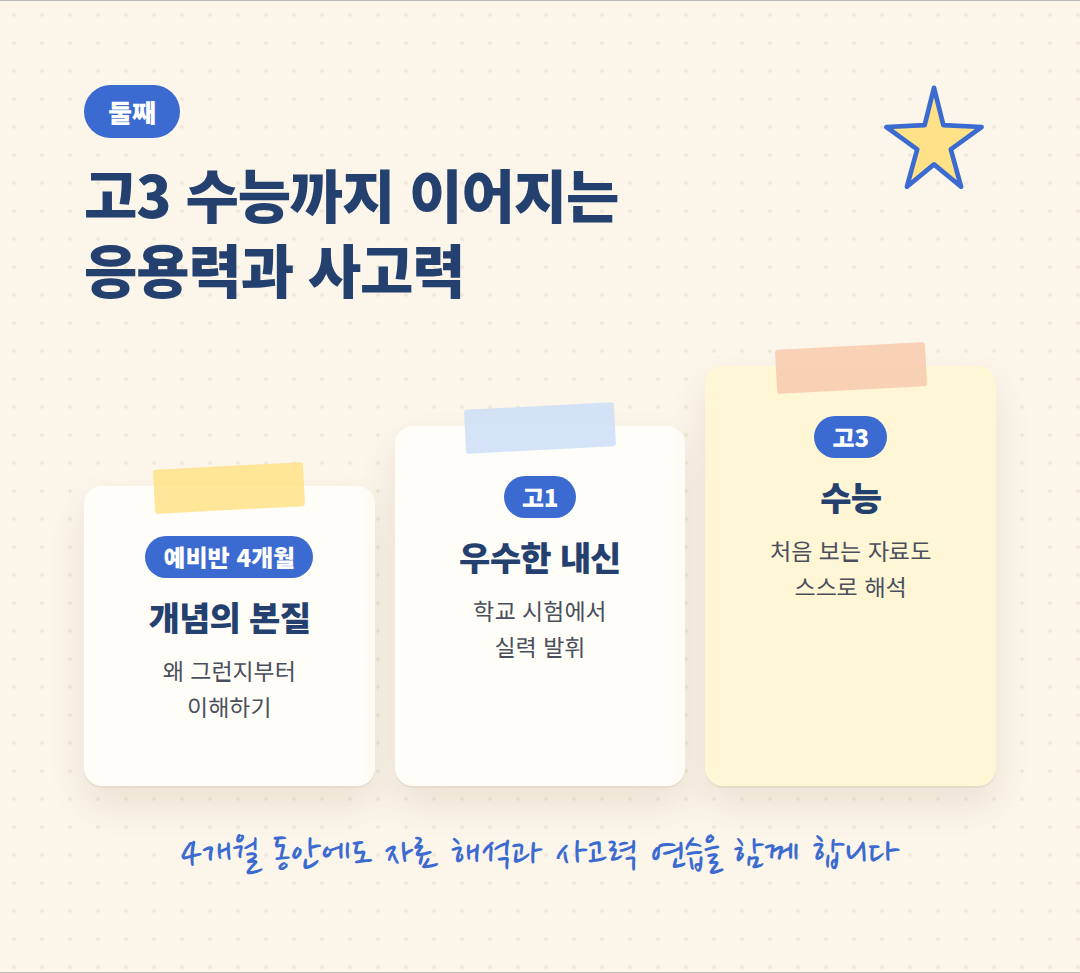
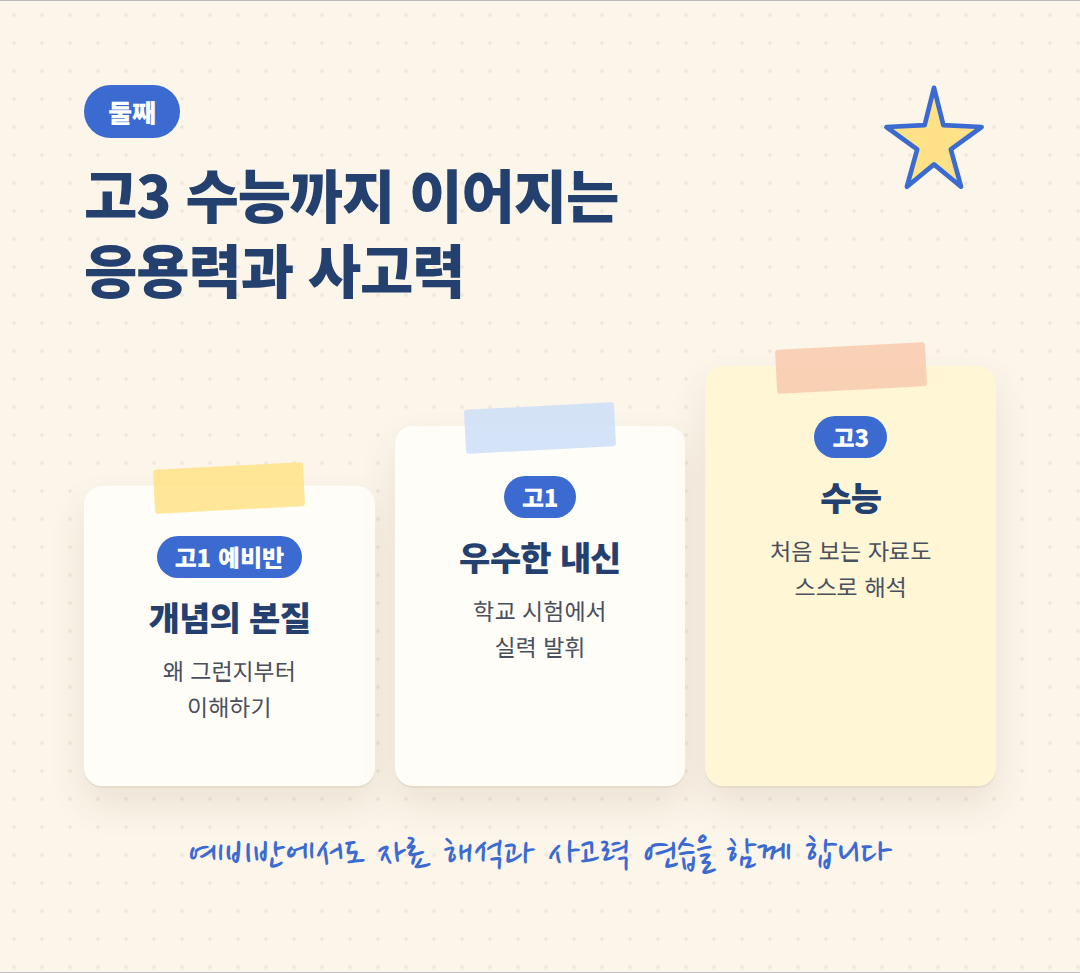
marketing: blog-16 '3월 입학 전 통합과학 1·2를 확실히' 문구로 정리
인사말·학생 호칭·개강 표기(화금반 11/3·수토반 11/4)·수업 시작 표기 수정,
'4개월 동안 ~ 제대로'·월별 진도 본문·'예비반을 주 1회로 해 보니' 문단 삭제,
'왜 예비반은 주 2회일까요'로 제목 수정. 그림 01·02·03·06·07 다시 그림.

Claude-Session: https://claude.ai/code/session_01WC7EVNFFJZDdwaC3HYBAmj

Changed region(s): [[0.1528, 0.8633, 0.825, 0.8941], [0.1222, 0.555, 0.3056, 0.5858]]

diff --git a/parkchan-science/marketing/blog-16/kit.html b/parkchan-science/marketing/blog-16/kit.html
@@ -32,56 +32,42 @@ mark{background:var(--soft);color:var(--ink);outline:1px solid var(--gold);borde
 </style>
 <div class="wrap">
 <section class="box"><h1>박찬 통합과학 · 고1 예비반 안내 글</h1><p class="sub">현 중3 · 고1 예비반(11월~2월) · 편안한 디자인 · 합니다체 · 사진 8장 · 통합과학1·2 진도 · 주 2회 이유 · 네 단계</p></section>
-<section class="box"><h2>① 제목 — 하나 고르기</h2><div class="row"><span class="k">A</span><span class="t">월성동 과학학원 | 현 중3 고1 예비반, 4개월 동안 통합과학 1·2를 제대로 — 박찬 통합과학</span><button class="cp" data-text="월성동 과학학원 | 현 중3 고1 예비반, 4개월 동안 통합과학 1·2를 제대로 — 박찬 통합과학">복사</button></div><div class="row"><span class="k">B</span><span class="t">대구 과학학원 | 고1 예비반 11월 3·4일 개강, 통합과학 1·2 두 권을 확실하게 — 월성동 박찬 통합과학</span><button class="cp" data-text="대구 과학학원 | 고1 예비반 11월 3·4일 개강, 통합과학 1·2 두 권을 확실하게 — 월성동 박찬 통합과학">복사</button></div></section>
+<section class="box"><h2>① 제목 — 하나 고르기</h2><div class="row"><span class="k">A</span><span class="t">월성동 과학학원 | 현 중3 고1 예비반, 3월 입학 전 통합과학 1·2를 확실히 — 박찬 통합과학</span><button class="cp" data-text="월성동 과학학원 | 현 중3 고1 예비반, 3월 입학 전 통합과학 1·2를 확실히 — 박찬 통합과학">복사</button></div><div class="row"><span class="k">B</span><span class="t">대구 과학학원 | 고1 예비반 화금반 11월 3일·수토반 11월 4일 개강, 통합과학 1·2를 확실히 — 월성동 박찬 통합과학</span><button class="cp" data-text="대구 과학학원 | 고1 예비반 화금반 11월 3일·수토반 11월 4일 개강, 통합과학 1·2를 확실히 — 월성동 박찬 통합과학">복사</button></div></section>
 <section class="box"><h2>② 본문 — 통째로 복사</h2><textarea id="bodyTxt" readonly>안녕하십니까.
-대구 월성동 박찬 통합과학 학원
-원장 박찬입니다.
+대구 월성동 박찬 통합과학 학원입니다.
 
 현재 중학교 3학년 자녀를 두신
 학부모님께 인사드립니다.
 
 내년 봄, 고등학교에 올라가면
-아이들은 처음으로
+학생들은 처음으로
 &#x27;통합과학&#x27;을 만나게 됩니다.
 그 첫걸음을 차근차근 준비하는
 고1 예비반을 안내해 드립니다.
 
 【사진 1 · 01_greeting.png】
 
-【소제목 · 인용구】 4개월 동안 통합과학 1·2를 제대로
+【소제목 · 인용구】 3월 입학 전, 통합과학 1·2를 확실히 지도하겠습니다
 
-개강: 화금반 2026년 11월 3일(화) · 수토반 11월 4일(수)
-기간: 2027년 2월 28일까지 4개월
+화금반: 2026년 11월 3일(화) 개강
+수토반: 2026년 11월 4일(수) 개강
+수업 시작: 오후 5시 30분 (주 2회)
 대상: 고1 예비 (현 중3)
-반: 화금반 · 수토반 (주 2회)
-시간: 오후 5시 30분 시작
+기간: 2027년 2월 28일까지
 
 고등학교 통합과학은
 통합과학 1과 통합과학 2, 두 권입니다.
-이 4개월 동안 두 권을 제대로 다룹니다.
-
-· 11월 ~ 12월 (2개월) : 통합과학 1
-  과학의 기초 · 물질과 규칙성 · 시스템과 상호작용
-
-· 1월 ~ 2월 (2개월) : 통합과학 2
-  변화와 다양성 · 환경과 에너지 · 과학과 미래 사회
-
-두 권의 모든 단원을 빠짐없이,
-확실하게 다질 수 있도록 지도하겠습니다.
+이 두 권을 3월 입학 전까지
+확실히 지도하겠습니다.
 
 【사진 2 · 02_period.png】
 
-【소제목 · 인용구】 왜 예비반만 주 2회일까요
+【소제목 · 인용구】 왜 예비반은 주 2회일까요
 
 평소 강의를 해 보면
 시간의 여유가 많을수록
 더 상세히 설명하고
 더 많은 문제를 함께 풀 수 있었습니다.
-
-고1 예비반 수업을
-일주일에 한 번만 해 보니,
-그보다는 두 번이 꼭 필요하다는 것을
-늘 느껴 왔습니다.
 
 주 1회 수업에도
 나름의 장점이 있을 것입니다.
@@ -150,7 +136,7 @@ mark{background:var(--soft);color:var(--ink);outline:1px solid var(--gold);borde
 고1 때 배우는 통합과학이
 결국 고3 수능 과목이 됩니다.
 
-그래서 이 4개월 동안에도
+그래서 예비반 수업에서도
 자료를 해석하고
 처음 보는 상황에 개념을 적용하는
 사고력 연습을 함께 합니다.
@@ -179,9 +165,10 @@ mark{background:var(--soft);color:var(--ink);outline:1px solid var(--gold);borde
   고등학교 과학으로 이어지는 기초
 
 · 고1 예비반 (지금 모집)
-  고1 예비 (현 중3) · 2026년 11월 3일(화금반)·4일(수토반) 개강 ~ 2027년 2월 28일
-  화금반 · 수토반 (주 2회) · 오후 5시 30분 시작
-  4개월 동안 통합과학 1·2를 제대로
+  고1 예비 (현 중3)
+  화금반: 2026년 11월 3일(화) · 수토반: 2026년 11월 4일(수) 개강
+  수업 시작: 오후 5시 30분 (주 2회)
+  3월 입학 전, 통합과학 1·2를 확실히
 
 · 고1 내신반
   2027년 고1 · 2027년 3월 ~ 12월 · 주 1회
@@ -243,24 +230,20 @@ mark{background:var(--soft);color:var(--ink);outline:1px solid var(--gold);borde
 <li><b>【장소】</b> 줄은 지우고 툴바의 <b>장소</b> 버튼으로 학원 위치 넣기</li>
 <li>맨 아래 <b>태그</b> 칸에 ③을 하나씩 입력</li></ol>
 <p class="note">사진은 가로 1080px PNG입니다. 위 순서는 흔히 쓰는 방식이며 네이버 공식 규격 문서는 아닙니다.</p></section>
-<section class="box"><h2>미리보기</h2><article class="post"><p>안녕하십니까.<br>대구 월성동 박찬 통합과학 학원<br>원장 박찬입니다.</p>
+<section class="box"><h2>미리보기</h2><article class="post"><p>안녕하십니까.<br>대구 월성동 박찬 통합과학 학원입니다.</p>
 <p>현재 중학교 3학년 자녀를 두신<br>학부모님께 인사드립니다.</p>
-<p>내년 봄, 고등학교에 올라가면<br>아이들은 처음으로<br>&#x27;통합과학&#x27;을 만나게 됩니다.<br>그 첫걸음을 차근차근 준비하는<br>고1 예비반을 안내해 드립니다.</p>
-<figure><img src="images/01_greeting.png" alt="현 중3 학부모님께 — 고1 예비반, 화금반 11월 3일·수토반 11월 4일 개강, 통합과학1·2를 제대로"><figcaption>사진 1 · 01_greeting.png</figcaption></figure>
-<blockquote>4개월 동안 통합과학 1·2를 제대로</blockquote>
-<p>개강: 화금반 2026년 11월 3일(화) · 수토반 11월 4일(수)<br>기간: 2027년 2월 28일까지 4개월<br>대상: 고1 예비 (현 중3)<br>반: 화금반 · 수토반 (주 2회)<br>시간: 오후 5시 30분 시작</p>
-<p>고등학교 통합과학은<br>통합과학 1과 통합과학 2, 두 권입니다.<br>이 4개월 동안 두 권을 제대로 다룹니다.</p>
-<p>· 11월 ~ 12월 (2개월) : 통합과학 1<br>과학의 기초 · 물질과 규칙성 · 시스템과 상호작용</p>
-<p>· 1월 ~ 2월 (2개월) : 통합과학 2<br>변화와 다양성 · 환경과 에너지 · 과학과 미래 사회</p>
-<p>두 권의 모든 단원을 빠짐없이,<br>확실하게 다질 수 있도록 지도하겠습니다.</p>
-<figure><img src="images/02_period.png" alt="4개월 동안 통합과학 1·2 — 11~12월 통합과학1, 1~2월 통합과학2"><figcaption>사진 2 · 02_period.png</figcaption></figure>
-<blockquote>왜 예비반만 주 2회일까요</blockquote>
+<p>내년 봄, 고등학교에 올라가면<br>학생들은 처음으로<br>&#x27;통합과학&#x27;을 만나게 됩니다.<br>그 첫걸음을 차근차근 준비하는<br>고1 예비반을 안내해 드립니다.</p>
+<figure><img src="images/01_greeting.png" alt="현 중3 학부모님께 — 고1 예비반, 3월 입학 전 통합과학 1·2를 확실히, 화금반 11월 3일(화)·수토반 11월 4일(수) 개강"><figcaption>사진 1 · 01_greeting.png</figcaption></figure>
+<blockquote>3월 입학 전, 통합과학 1·2를 확실히 지도하겠습니다</blockquote>
+<p>화금반: 2026년 11월 3일(화) 개강<br>수토반: 2026년 11월 4일(수) 개강<br>수업 시작: 오후 5시 30분 (주 2회)<br>대상: 고1 예비 (현 중3)<br>기간: 2027년 2월 28일까지</p>
+<p>고등학교 통합과학은<br>통합과학 1과 통합과학 2, 두 권입니다.<br>이 두 권을 3월 입학 전까지<br>확실히 지도하겠습니다.</p>
+<figure><img src="images/02_period.png" alt="3월 입학 전, 통합과학 1·2를 확실히 — 11~12월 통합과학 1, 1~2월 통합과학 2"><figcaption>사진 2 · 02_period.png</figcaption></figure>
+<blockquote>왜 예비반은 주 2회일까요</blockquote>
 <p>평소 강의를 해 보면<br>시간의 여유가 많을수록<br>더 상세히 설명하고<br>더 많은 문제를 함께 풀 수 있었습니다.</p>
-<p>고1 예비반 수업을<br>일주일에 한 번만 해 보니,<br>그보다는 두 번이 꼭 필요하다는 것을<br>늘 느껴 왔습니다.</p>
 <p>주 1회 수업에도<br>나름의 장점이 있을 것입니다.<br>다만 저는 주 2회 수업으로<br>조금 더 여유로운 시간 속에서<br>다양한 지식과 문제 풀이를 나누며<br>더 큰 학습 효과를 거두고 싶습니다.</p>
 <p>그래서 시간의 여유가 있는<br>고1 예비반 때만<br>일주일에 두 번 수업합니다.</p>
 <p>고등학교에 올라가면<br>고1 내신반과 고3 수능반은<br>일주일에 한 번밖에 하지 못합니다.</p>
-<figure><img src="images/03_twice.png" alt="예비반만 주 2회인 이유 세 가지"><figcaption>사진 3 · 03_twice.png</figcaption></figure>
+<figure><img src="images/03_twice.png" alt="왜 예비반은 주 2회일까요 — 세 가지 이유"><figcaption>사진 3 · 03_twice.png</figcaption></figure>
 <blockquote>고등학교 과학, 이렇게 바뀝니다</blockquote>
 <p>2022 개정 교육과정에 따라<br>고1 학생은 모두 통합과학을 배웁니다.</p>
 <p>고교 내신은 2025년 고1부터<br>5등급제로 바뀌었습니다.</p>
@@ -276,14 +259,14 @@ mark{background:var(--soft);color:var(--ink);outline:1px solid var(--gold);borde
 <figure><img src="images/05_first.png" alt="첫째, 고1 첫 내신 고득점을 위한 준비"><figcaption>사진 5 · 05_first.png</figcaption></figure>
 <blockquote>둘째, 고3 수능까지 이어지는 응용력과 사고력</blockquote>
 <p>고1 때 배우는 통합과학이<br>결국 고3 수능 과목이 됩니다.</p>
-<p>그래서 이 4개월 동안에도<br>자료를 해석하고<br>처음 보는 상황에 개념을 적용하는<br>사고력 연습을 함께 합니다.</p>
+<p>그래서 예비반 수업에서도<br>자료를 해석하고<br>처음 보는 상황에 개념을 적용하는<br>사고력 연습을 함께 합니다.</p>
 <p>외운 지식은 시험이 끝나면 흩어지지만<br>본질을 이해한 지식은 남습니다.<br>통합과학의 전신인 공통과학을 가르쳤던 경험과<br>오랜 입시 지도의 경험으로<br>고1에서 고3까지 이어지는 실력을 키우겠습니다.</p>
 <figure><img src="images/06_second.png" alt="둘째, 고3 수능까지 이어지는 응용력과 사고력"><figcaption>사진 6 · 06_second.png</figcaption></figure>
 <blockquote>하나로 이어지는 네 단계 과정</blockquote>
 <p>박찬 통합과학 학원의 반은<br>따로 떨어져 있지 않습니다.</p>
 <p>앞 단계에서 기초를 다지고,<br>그 위에서 고등학교 내신을 준비하고,<br>내신 수업 속에서 사고력과 응용력을 키워<br>고3 수능까지 나아가도록<br>하나의 흐름으로 짜여 있습니다.</p>
 <p>· 중등부반<br>내년 중3이 되는 현 중2 · 2027년 1월 개강<br>고등학교 과학으로 이어지는 기초</p>
-<p>· 고1 예비반 (지금 모집)<br>고1 예비 (현 중3) · 2026년 11월 3일(화금반)·4일(수토반) 개강 ~ 2027년 2월 28일<br>화금반 · 수토반 (주 2회) · 오후 5시 30분 시작<br>4개월 동안 통합과학 1·2를 제대로</p>
+<p>· 고1 예비반 (지금 모집)<br>고1 예비 (현 중3)<br>화금반: 2026년 11월 3일(화) · 수토반: 2026년 11월 4일(수) 개강<br>수업 시작: 오후 5시 30분 (주 2회)<br>3월 입학 전, 통합과학 1·2를 확실히</p>
 <p>· 고1 내신반<br>2027년 고1 · 2027년 3월 ~ 12월 · 주 1회<br>학교마다 다른 교과서(5개 출판사)에 맞춘<br>내신 대비와 사고력·응용력</p>
 <p>· 고3 수능반<br>내년 고3이 되는 현 고2 · 2027년 1월 개강 · 주 1회<br>첫 통합과학 수능(2028학년도) 대비</p>
 <p>중등부반과 고3 수능반은<br>개강에 맞춰 다시 자세히 안내해 드리겠습니다.</p>

diff --git a/parkchan-science/marketing/README.md b/parkchan-science/marketing/README.md
@@ -17,10 +17,10 @@
 - **보충자료는 예비반부터 계속** 제공.
 - **고1 예비반 개강: 화금반 2026년 11월 3일(화) · 수토반 11월 4일(수)** ~ 2027년 2월 28일 · 주 2회 · 오후 5시 30분 시작(끝나는 시각은 적지 않음). **대상 표기는 '고1 예비 (현 중3)'**.
 - **교습비 두 금액 = 주 1회 / 주 2회** 차이(월 기준). 고1 예비반은 **고등부** — **월 31만 7,000원(주 2회)**.
-- **예비반 진도: 11~12월 통합과학 1(과학의 기초·물질과 규칙성·시스템과 상호작용), 1~2월 통합과학 2(변화와 다양성·환경과 에너지·과학과 미래 사회)** — '두 권을 제대로, 확실하게'(원장님 강조). ⚠ 진도 명시는 선행학습 광고 위험을 키운다(원장님께 알림) — '선행'·'완성' 낱말은 계속 쓰지 않음.
+- **예비반 진도: 11~12월 통합과학 1(과학의 기초·물질과 규칙성·시스템과 상호작용), 1~2월 통합과학 2(변화와 다양성·환경과 에너지·과학과 미래 사회)** — 문구는 **'3월 입학 전, 통합과학 1·2를 확실히 지도하겠습니다'**(2026-10-10 원장님 확정). '4개월 동안 ~ 제대로'·'두 권의 모든 단원을 빠짐없이'는 쓰지 않음. 글 본문에는 월별 진도를 적지 않고 그림(02)에만 '11월 ~ 12월 (2개월)' 괄호 표기. ⚠ 진도 명시는 선행학습 광고 위험을 키운다(원장님께 알림) — '선행'·'완성' 낱말은 계속 쓰지 않음.
 - **주 2회는 고1 예비반만**(시간 여유가 있는 유일한 때 — 원장님 강의 경험). **고1 내신반·고3 수능반은 주 1회.** 중등부반 횟수는 【확인 필요】.
 - (정정) 앞서 26만 7,000원이라 했던 것은 중등부 주 2회 — 예비반은 고등부라 **31만 7,000원**.
-- 주 2회 이유(원장님 말씀 그대로): 시간 여유가 많을수록 더 상세히·더 많은 문제를 풀어 줄 수 있었다 · 예비반을 주 1회로 해 보니 두 번이 꼭 필요하다고 느껴 왔다 · 그래서 여유 있는 예비반 때만 주 2회, 고1 내신반·고3 수능반은 주 1회.
+- 주 2회 이유(원장님 말씀 그대로): 시간 여유가 많을수록 더 상세히·더 많은 문제를 풀어 줄 수 있었다 · 주 1회에도 장점이 있지만 주 2회로 여유 있게 다양한 지식·문제 풀이로 학습 효과를 거두고 싶다 · ('예비반을 주 1회로 해 보니' 문단은 2026-10-10 삭제) · 그래서 여유 있는 예비반 때만 주 2회, 고1 내신반·고3 수능반은 주 1회.
 - **다른 학원과 견주거나 깎아내리는 말 금지**('다른 학원은 주 1회만' 등) · '대충이 아니라' 같은 부정 대비 표현도 빼고 '확실하게 다질 수 있도록 지도하겠습니다'.
 - **등록 순서(4단계)**: ① 상담 전화 또는 내원 → ② 수강 예약 → ③ 일주일 무료 수강 → ④ 등록 결정.
 - 최신 글 = **`blog-16/` 완성본**(확인 필요 칸 없음).
@@ -36,9 +36,9 @@
 - 최신 글 = **`blog-10/`**(blog-09 + 네 단계 과정 사진·문단).
 
 ## 지금 광고 = 고1 예비반(현 중3) — `blog-09/` (2026-10-10 원장님)
-- 반은 넷: 중등부반 · 고1 예비반 · 고1 내신반 · 고3 수능반. **지금은 고1 예비반만** 광고(2026.11.1 ~ 2027.2.28, 4개월, 현 중3).
+- 반은 넷: 중등부반 · 고1 예비반 · 고1 내신반 · 고3 수능반. **지금은 고1 예비반만** 광고(화금반 2026.11.3(화)·수토반 11.4(수) 개강 ~ 2027.2.28, 고1 예비(현 중3)). 인사는 '대구 월성동 박찬 통합과학 학원입니다.', 학생을 가리킬 땐 '학생들'.
   나머지 셋은 '한 달 반~두 달 뒤 새롭게 안내' 한 줄로.
-- 강조 순서: **첫째, 고1 첫 내신 고득점을 위한 노력**(학교별 교과서 5개 출판사·보충자료·수업 영상·결석 보충·원장 직강) → **둘째, 고3 수능까지 이어지는 응용력·사고력**(4개월에도 자료 해석·적용 연습).
+- 강조 순서: **첫째, 고1 첫 내신 고득점을 위한 노력**(학교별 교과서 5개 출판사·보충자료·수업 영상·결석 보충·원장 직강) → **둘째, 고3 수능까지 이어지는 응용력·사고력**(예비반에서도 자료 해석·적용 연습).
 - ⚠ 현 중3 대상 고1 반 광고는 선행학습 유발 광고 금지(공교육정상화법 제8조 ④)에 걸릴 수 있다 — 처벌 조항은 없지만 교육청 점검 대상. **'선행'·'미리 끝내기'·'고1 과정 완성'·'진도' 같은 말 금지**, '준비'·'첫 내신'·'중학교 과학에서 고등학교 통합과학으로 넘어가는 다리'로. 반 이름 '고1 예비반'은 원장님 결정으로 그대로.
 - 지금 중3의 수능 = 2030학년도(2029년 11월) — 2028 체제 적용(현재 발표 기준, 바뀔 수 있음을 글에 '현재 발표 기준'으로).
 
